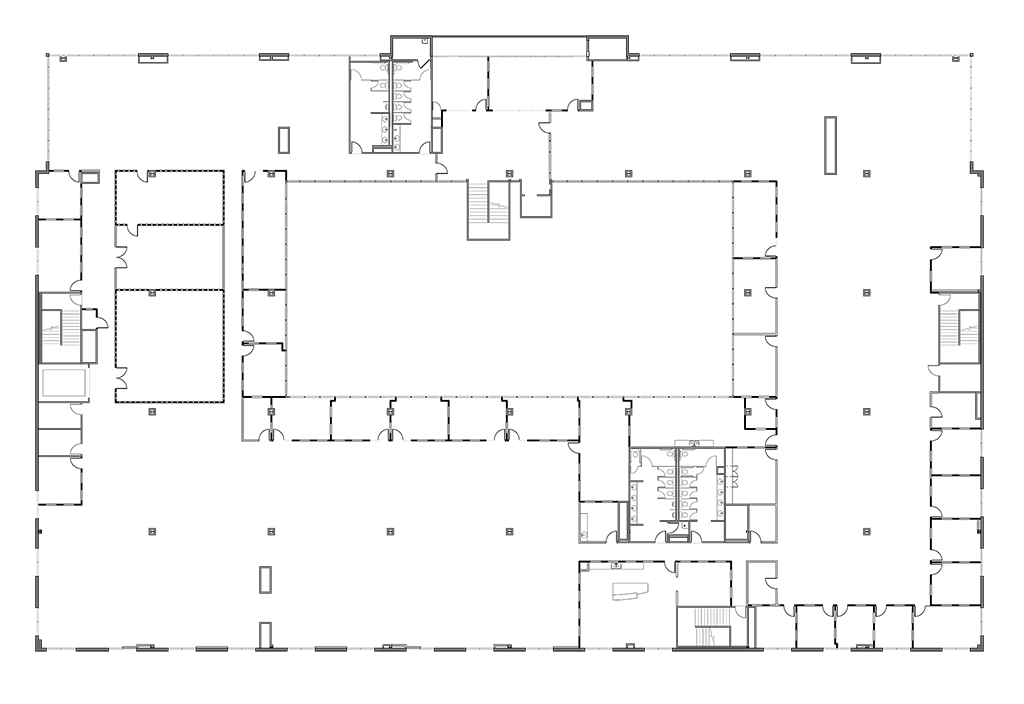
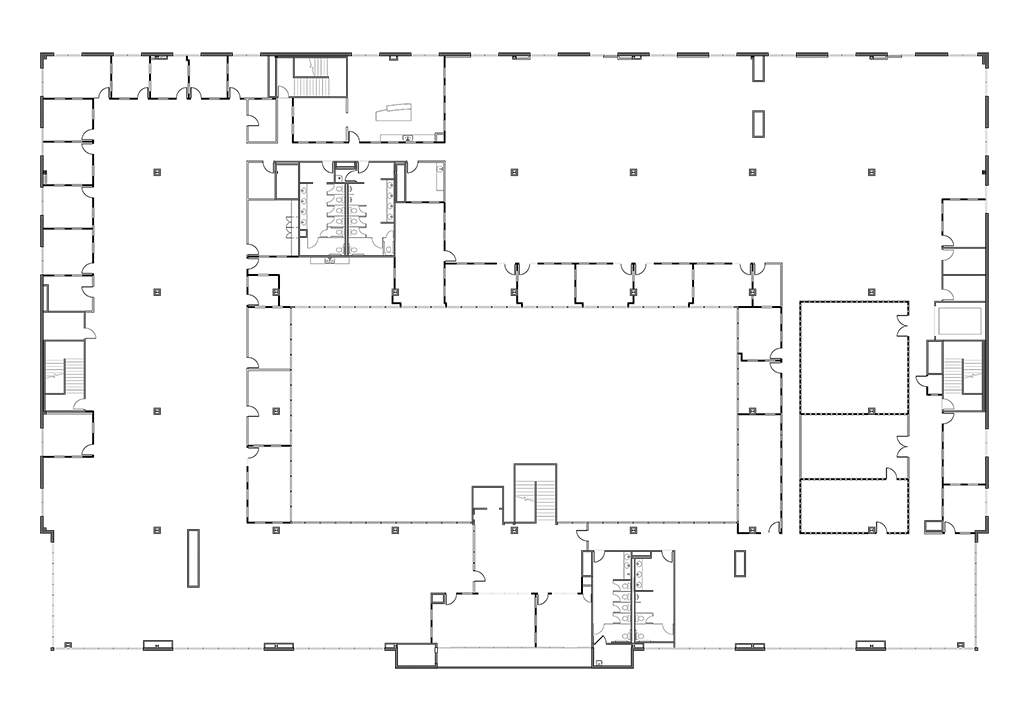
removed animation, because it was stupid.

diff --git a/BlueToothLocator/iBeaconViewControllerFullMapViewController.m b/BlueToothLocator/iBeaconViewControllerFullMapViewController.m
@@ -21,6 +21,7 @@
     UIImageView* squareImage;
     GridViewSimple * grid;
     UIImageView * imageFloorPlan;
+    UIImageView * imageFloorPlanFull;
     __strong NSMutableDictionary * peripheralDataDictionary;
     __strong NSMutableArray * animationQue;
     __strong LocationUtility * utility;
@@ -63,6 +64,10 @@
     imageFloorPlan = [[UIImageView alloc] initWithImage:[UIImage imageNamed:@"tourshell"]];
     [self.view addSubview:imageFloorPlan];
     
+    imageFloorPlanFull = [[UIImageView alloc] initWithImage:[UIImage imageNamed:@"tourfull"]];
+    [imageFloorPlanFull setHidden:YES];
+    [self.view addSubview:imageFloorPlanFull];
+    
     squareImage = [[UIImageView alloc] initWithImage:[UIImage imageNamed:@"square"]];
     [self.view addSubview:squareImage];
     squareImage.frame = CGRectMake(0, 0, 0, 0);
@@ -95,7 +100,9 @@
     
     UIBarButtonItem * b3 = [[UIBarButtonItem alloc] initWithTitle:@"ToggleGrid" style:UIBarButtonItemStyleBordered target:self action:@selector(ShowGrid:)];
     
-    self.navigationItem.rightBarButtonItems = @[b1, b2, b3];
+    UIBarButtonItem * b4 = [[UIBarButtonItem alloc] initWithTitle:@"ToggleLayout" style:UIBarButtonItemStyleBordered target:self action:@selector(ShowPlan:)];
+    
+    self.navigationItem.rightBarButtonItems = @[b1, b2, b3, b4];
 }
 
 - (void)initRegion {
@@ -180,14 +187,18 @@
         }
     }
     
-    //[grid setBeaconsActive:activeBeacons];
     CGRect rect = [utility getRectFromActiveBeacons:activeBeacons];
     
+    //squareImage.frame = rect;
+    
     if (prevLocation.origin.x == 0)
+    {
         prevLocation = rect;
+        prevLocation2 = rect;
+    }
     
-    
-    if (prevLocation.origin.x == rect.origin.x && prevLocation.origin.y == rect.origin.y)
+    //to avoid unnecessary jumps, lets get 2 similar in a row.
+    if (CGRectIntersectsRect(prevLocation, rect))
     {
         squareImage.frame = rect;
     }
@@ -195,7 +206,6 @@
     prevLocation = rect;
     
     //NSLog(@"RECT IS: %f, %f, %f, %f", rect.origin.x, rect.origin.y, rect.size.width, rect.size.height);
-    //TODO: Draw that rect.
 }
 
 -(void)touchesBegan:(NSSet *)touches withEvent:(UIEvent *)event
@@ -216,6 +226,11 @@
 }
 
 #pragma mark - Button Clicks
+
+-(void)ShowPlan:(id)sender
+{
+    [imageFloorPlanFull setHidden:!imageFloorPlanFull.hidden];
+}
 
 -(void)ShowGrid:(id)sender
 {

diff --git a/BlueToothLocator/LocationUtility.m b/BlueToothLocator/LocationUtility.m
@@ -21,7 +21,7 @@
         self.delegate = del;
         
         beaconCoordinates = [NSMutableDictionary dictionary];
-        ptTopLeft = CGPointMake(467, 143);
+        ptTopLeft = CGPointMake(447, 143);
         ptBottomRight = CGPointMake(644, 261);
     }
     return self;
